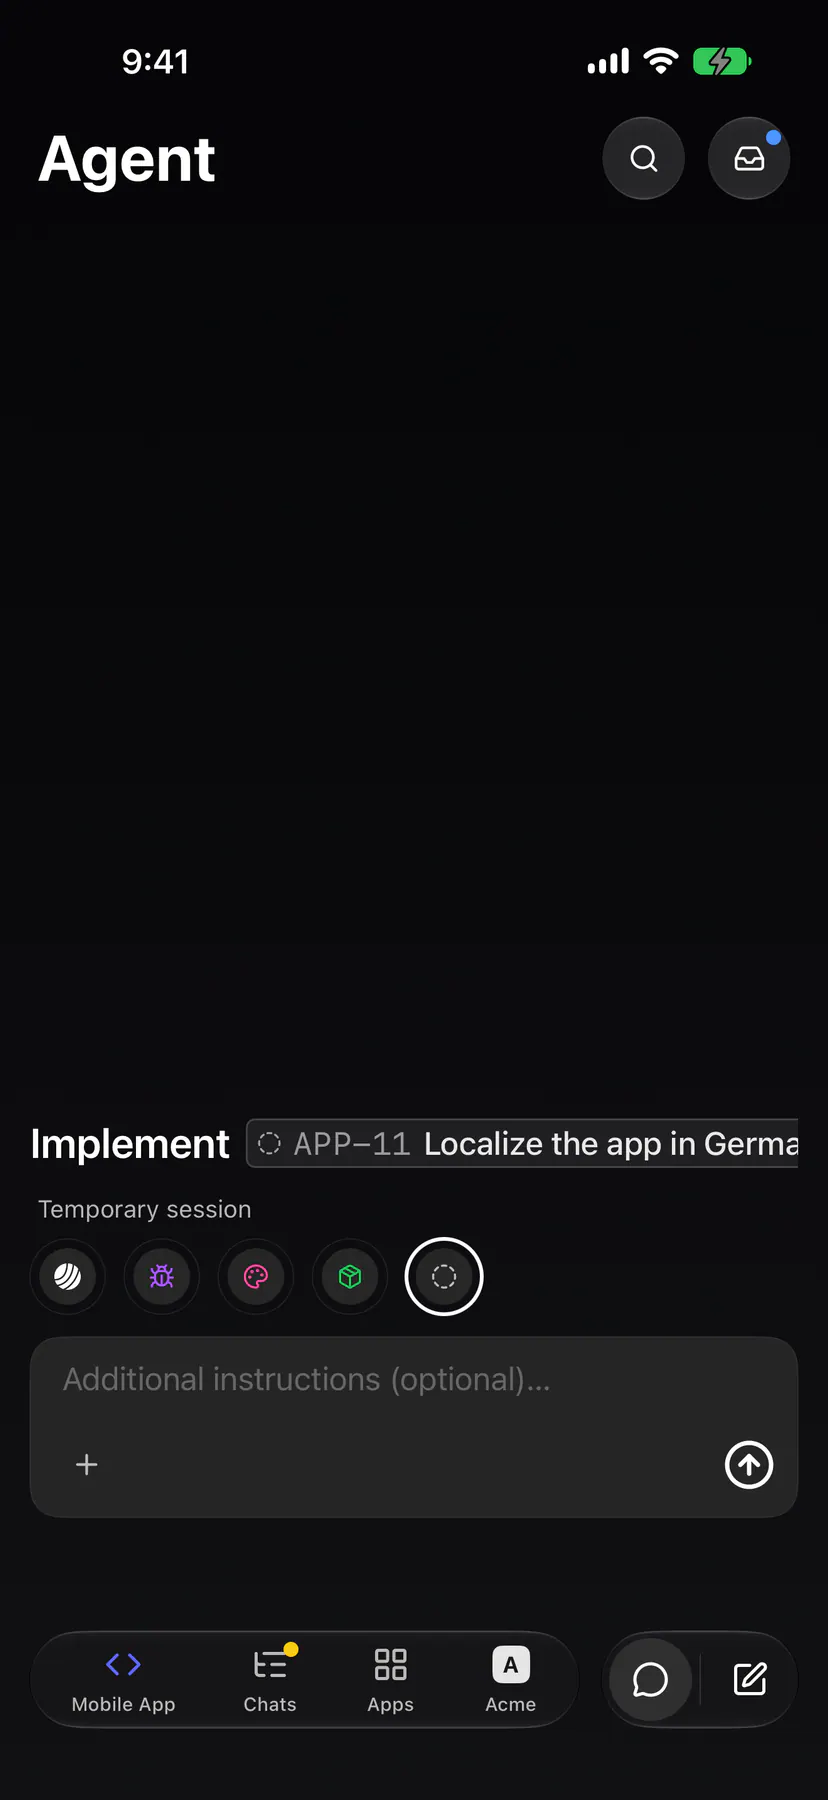
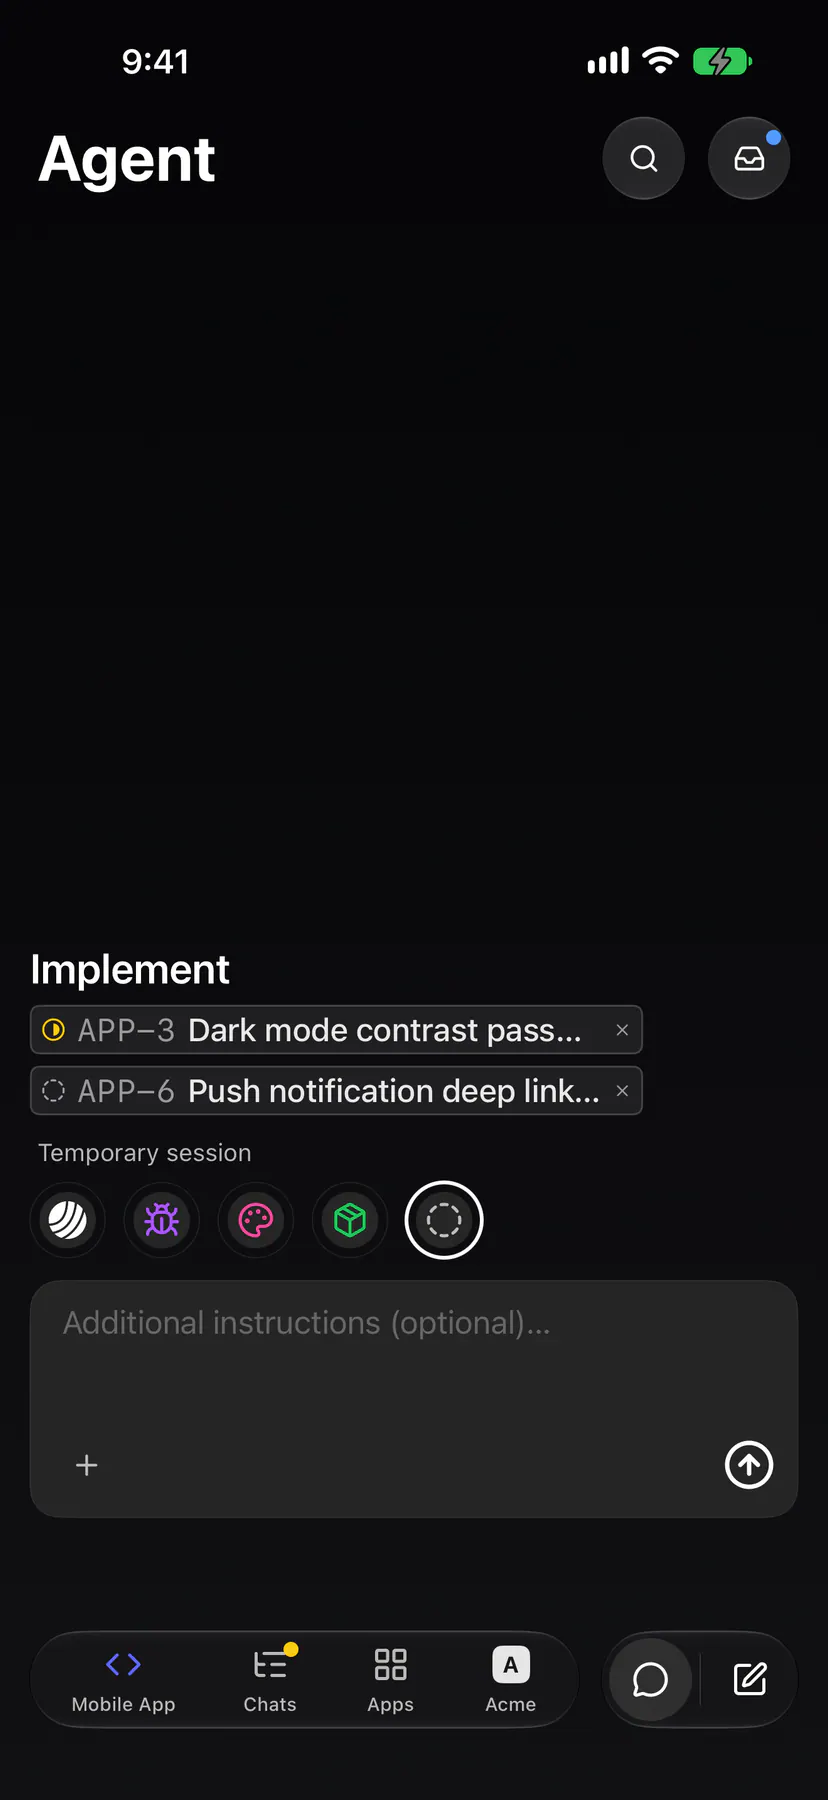
EXP-1551: iOS chat-issues shot (APP-3 + APP-6); the walk re-taps the composer after the picker's search

Changed region(s): [[0.0302, 0.5289, 0.9662, 0.7778], [0.8454, 0.7156, 0.8756, 0.7467], [0.6944, 0.7156, 0.7246, 0.7467]]

diff --git a/apps/ios/ExponentialUITests/StyleguideScreenshots.swift b/apps/ios/ExponentialUITests/StyleguideScreenshots.swift
@@ -572,7 +572,10 @@ final class StyleguideScreenshots: XCTestCase {
         let issueSearch = anyElement(app, identified: "agent-composer-submenu-search")
         expect(issueSearch, within: Wait.nav, "The issue picker has no search input")
         for title in Self.chatIssueTitles {
-            issueSearch.tap()
+            // Tap the trailing edge: the caret lands at the END, so the
+            // deletes clear the previous title whole (a centre tap leaves
+            // its head in the field).
+            issueSearch.coordinate(withNormalizedOffset: CGVector(dx: 0.97, dy: 0.5)).tap()
             clearText(of: issueSearch)
             issueSearch.typeText(title)
             // EXP-1030: a picker row reads `IDENT Title` in ONE label (the ×4
@@ -602,6 +605,11 @@ final class StyleguideScreenshots: XCTestCase {
         // its input focused and prefilled with the token after the `#`.
         let composerField = anyElement(app, identified: "agent-composer-field")
         composerField.tap()
+        // EXP-1551: sg_chat-issues typed in the picker's search, so the first
+        // tap can go to ending that edit: tap again until the keyboard is up.
+        if !app.keyboards.firstMatch.waitForExistence(timeout: 2) {
+            composerField.tap()
+        }
         app.typeText("Explain #")
         let refSheet = anyElement(app, identified: "issue-ref-search-sheet")
         expect(refSheet, within: Wait.nav, "Typing # did not open the search-list sheet")
